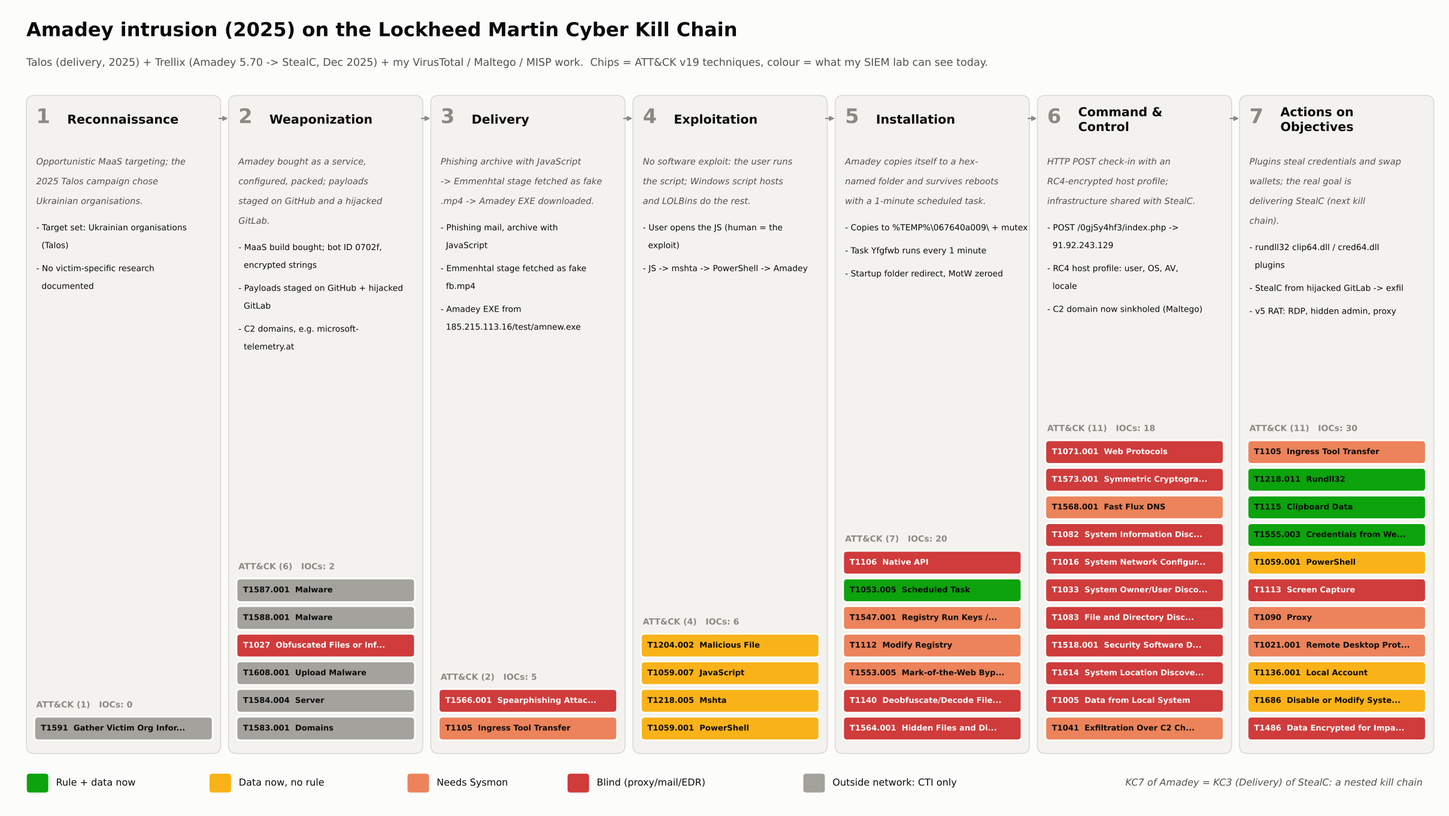
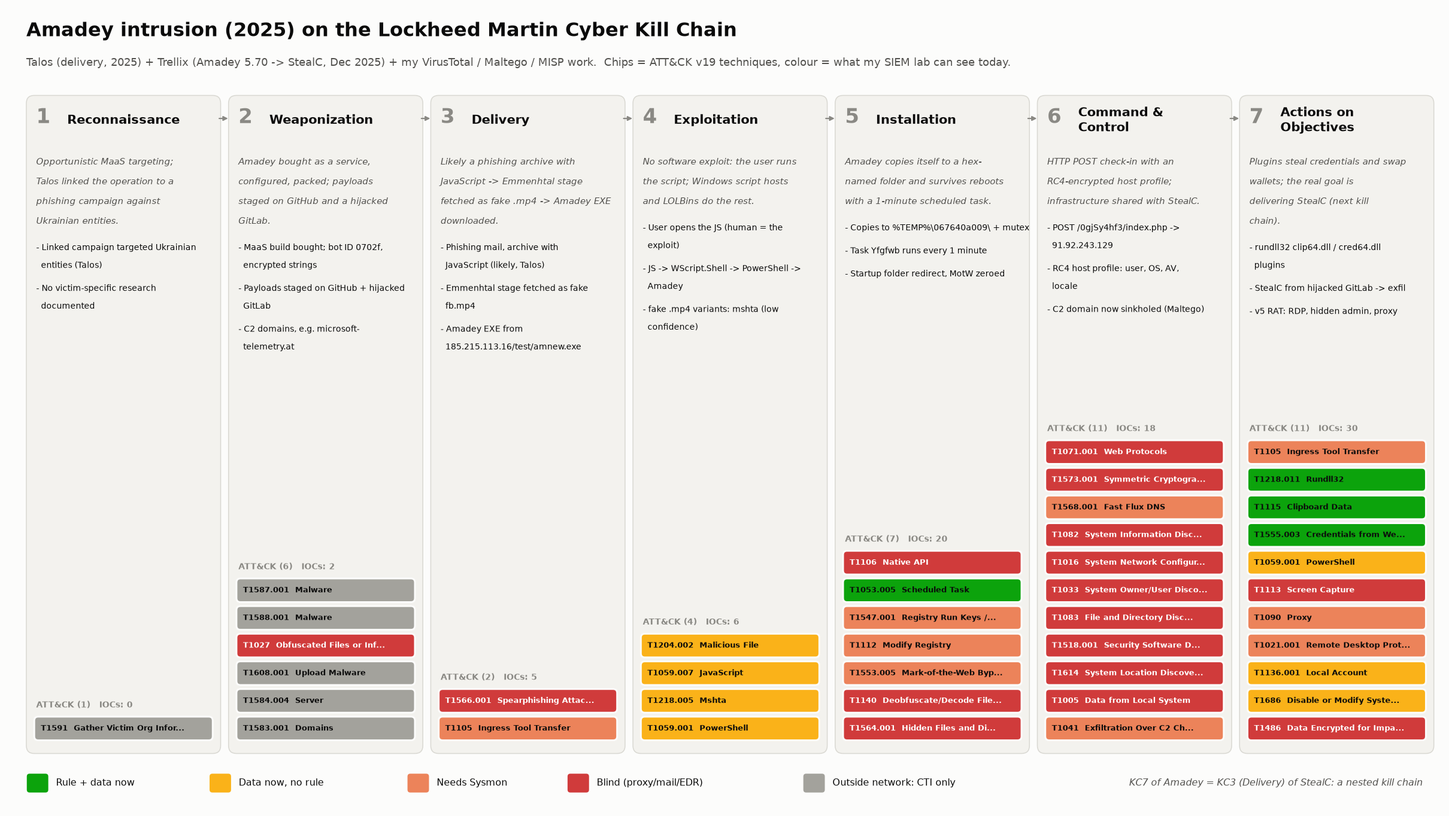
Fix factual errors in weeks 1-4
- Amadey v5 has 19 backdoor commands (IDs 10-29), not 29 (Microsoft,
  binaryanalys.is)
- Glossary: Talos campaign C2s were on AS56873, not AS202412; Talos
  operation described accurately (GitHub staging, linked SmokeLoader
  phishing against Ukrainian entities)
- Week 4: Talos shows JS -> WScript.Shell -> PowerShell, not mshta;
  T1218.005 lowered to low confidence (Emmenhtal fake-.mp4 pattern),
  T1566.001 to medium (phishing seen with SmokeLoader, assessed likely
  for Amadey). Regenerated JSON, Navigator layers and kill-chain figure
- T1158 is revoked (by T1564.001), not deprecated
- ECS export: scheduled task indicator now type "file" with file.path
  (windows-scheduled-task is not an ECS indicator type)
- VT seed comment for Splunk 617f4082 matches the VT finding

Claude-Session: https://claude.ai/code/session_01BRfDDBZsXrL5LqE1TAcPyw

diff --git a/week-04-kill-chain/scripts/build_kill_chain.py b/week-04-kill-chain/scripts/build_kill_chain.py
@@ -59,15 +59,15 @@ KILL_CHAIN = [
     {
         "phase": 1, "name": "Reconnaissance",
         "lm_definition": "Research, identification and selection of targets.",
-        "summary": "Opportunistic MaaS targeting; the 2025 Talos campaign chose Ukrainian organisations.",
-        "fig_actions": ["Target set: Ukrainian organisations (Talos)", "No victim-specific research documented"],
+        "summary": "Opportunistic MaaS targeting; Talos linked the operation to a phishing campaign against Ukrainian entities.",
+        "fig_actions": ["Linked campaign targeted Ukrainian entities (Talos)", "No victim-specific research documented"],
         "actions": [
-            "Affiliate picks a target set (Ukrainian entities in the Talos campaign) and lure theme",
+            "Affiliate picks a target set and lure theme (the linked Talos phishing campaign targeted Ukrainian entities)",
             "No victim-specific research documented - commodity loader, volume over precision",
         ],
         "sources": ["talos2025"],
         "techniques": [
-            {"id": "T1591", "how": "Choice of Ukrainian organisations as targets (inferred, low confidence)", "status": "CTI", "confidence": "low"},
+            {"id": "T1591", "how": "Target choice; the linked phishing campaign hit Ukrainian entities (inferred, low confidence)", "status": "CTI", "confidence": "low"},
         ],
     },
     {
@@ -94,16 +94,16 @@ KILL_CHAIN = [
     {
         "phase": 3, "name": "Delivery",
         "lm_definition": "Transmission of the weapon to the targeted environment.",
-        "summary": "Phishing archive with JavaScript -> Emmenhtal stage fetched as fake .mp4 -> Amadey EXE downloaded.",
-        "fig_actions": ["Phishing mail, archive with JavaScript", "Emmenhtal stage fetched as fake fb.mp4", "Amadey EXE from 185.215.113.16/test/amnew.exe"],
+        "summary": "Likely a phishing archive with JavaScript -> Emmenhtal stage fetched as fake .mp4 -> Amadey EXE downloaded.",
+        "fig_actions": ["Phishing mail, archive with JavaScript (likely, Talos)", "Emmenhtal stage fetched as fake fb.mp4", "Amadey EXE from 185.215.113.16/test/amnew.exe"],
         "actions": [
-            "Phishing e-mail with an archive containing a JavaScript file",
+            "Phishing e-mail with an archive containing a JavaScript file (seen in the linked SmokeLoader campaign; Talos assesses the Amadey Emmenhtal scripts were likely meant for the same delivery)",
             "Next stage pulled from pivqmane[.]com/doc/fb.mp4 (Emmenhtal disguised as video)",
             "Amadey binary downloaded from 185.215.113.16/test/amnew.exe",
         ],
         "sources": ["talos2025", "misp"],
         "techniques": [
-            {"id": "T1566.001", "how": "Archive attachment with JavaScript in phishing mail", "status": "BLIND", "confidence": "high"},
+            {"id": "T1566.001", "how": "Archive attachment with JavaScript in phishing mail (Talos: seen with SmokeLoader, likely for Amadey)", "status": "BLIND", "confidence": "medium"},
             {"id": "T1105", "how": "Emmenhtal stage and Amadey EXE downloaded over HTTP", "status": "SYSMON", "confidence": "high"},
         ],
     },
@@ -111,16 +111,17 @@ KILL_CHAIN = [
         "phase": 4, "name": "Exploitation",
         "lm_definition": "Triggering the intruder's code - a vulnerability, or the user/OS auto-executing it.",
         "summary": "No software exploit: the user runs the script; Windows script hosts and LOLBins do the rest.",
-        "fig_actions": ["User opens the JS (human = the exploit)", "JS -> mshta -> PowerShell -> Amadey"],
+        "fig_actions": ["User opens the JS (human = the exploit)", "JS -> WScript.Shell -> PowerShell -> Amadey", "fake .mp4 variants: mshta (low confidence)"],
         "actions": [
             "Victim opens the JavaScript from the archive (user execution - the 'exploited' component is the human)",
-            "JS -> mshta.exe runs the remote Emmenhtal stage -> PowerShell loads and starts Amadey",
+            "JS -> WScript.Shell runs encoded PowerShell -> AES-decrypted PowerShell downloads and starts Amadey",
+            "Emmenhtal variants disguised as .mp4 (pivqmane[.]com) are typically run by mshta.exe - not shown in Talos' JS samples",
         ],
         "sources": ["talos2025"],
         "techniques": [
             {"id": "T1204.002", "how": "User double-clicks the JS file from the archive", "status": "DATA", "confidence": "high"},
-            {"id": "T1059.007", "how": "JavaScript executed by Windows Script Host", "status": "DATA", "confidence": "high"},
-            {"id": "T1218.005", "how": "mshta.exe executes the remote Emmenhtal stage", "status": "DATA", "confidence": "high"},
+            {"id": "T1059.007", "how": "JavaScript executed by Windows Script Host (WScript.Shell launches PowerShell)", "status": "DATA", "confidence": "high"},
+            {"id": "T1218.005", "how": "mshta.exe runs Emmenhtal disguised as .mp4 (Orange Cyberdefense pattern; not in Talos' JS samples)", "status": "DATA", "confidence": "low"},
             {"id": "T1059.001", "how": "Emmenhtal PowerShell layer downloads/starts the loader", "status": "DATA", "confidence": "high"},
         ],
     },
@@ -143,7 +144,7 @@ KILL_CHAIN = [
             {"id": "T1112", "how": "Registry values overwritten for persistence", "status": "SYSMON", "confidence": "high"},
             {"id": "T1553.005", "how": "Zone.Identifier ADS zeroed so SmartScreen/MotW checks do not fire", "status": "SYSMON", "confidence": "high"},
             {"id": "T1140", "how": "Encrypted strings (AV names, C2, file names) decoded at runtime", "status": "BLIND", "confidence": "high"},
-            {"id": "T1564.001", "how": "Hidden files/directories (Talos STIX listed deprecated T1158)", "status": "BLIND", "confidence": "medium"},
+            {"id": "T1564.001", "how": "Hidden files/directories (Talos STIX listed revoked T1158)", "status": "BLIND", "confidence": "medium"},
         ],
     },
     {

diff --git a/week-03-data-processing/scripts/to_elastic_ndjson.py b/week-03-data-processing/scripts/to_elastic_ndjson.py
@@ -23,7 +23,7 @@ OUT = HERE.parent / "output" / "elastic"
 INDEX = "ti-amadey"
 
 ECS_TYPE = {"sha256": "file", "url": "url", "domain": "domain-name", "ip": "ipv4-addr",
-            "mutex": "mutex", "scheduled_task": "windows-scheduled-task"}
+            "mutex": "mutex", "scheduled_task": "file"}   # ECS has no task type: the .job task is a file
 
 MAPPING = {
     "mappings": {
@@ -37,7 +37,8 @@ MAPPING = {
                 "indicator": {"properties": {
                     "type": {"type": "keyword"},
                     "ip": {"type": "ip"},
-                    "file": {"properties": {"hash": {"properties": {"sha256": {"type": "keyword"}}}}},
+                    "file": {"properties": {"hash": {"properties": {"sha256": {"type": "keyword"}}},
+                                            "path": {"type": "keyword"}, "name": {"type": "keyword"}}},
                     "url": {"properties": {"full": {"type": "keyword"}, "domain": {"type": "keyword"},
                                            "path": {"type": "keyword"}}},
                     "description": {"type": "text"},
@@ -67,6 +68,9 @@ def doc(ioc, as_of):
         ind["ip"] = v
     elif t == "domain":
         ind["url"] = {"domain": v}
+    elif t == "scheduled_task":
+        ind["file"] = {"path": v, "name": v.rsplit("\\", 1)[-1]}
+        ind["description"] += f" | {t}: {v}"
     elif t == "url":
         host_path = v.split("://", 1)[1]
         host, _, path = host_path.partition("/")

diff --git a/week-03-data-processing/scripts/normalize_iocs.py b/week-03-data-processing/scripts/normalize_iocs.py
@@ -417,7 +417,7 @@ def write_outputs(merged, rejected, steps, attack_raw, attack_norm, as_of, out_d
     L += ["", "## Why indicators were NOT marked actionable", "", "| Reason | Count |", "|---|---|"]
     L += [f"| {k} | {v} |" for k, v in reasons.most_common()]
     L += ["", "## ATT&CK IDs found in STIX", "",
-          f"Raw: {', '.join(attack_raw)}  ", f"Normalised: {', '.join(attack_norm)} (deprecated T1158 -> T1564.001)", ""]
+          f"Raw: {', '.join(attack_raw)}  ", f"Normalised: {', '.join(attack_norm)} (revoked T1158 -> T1564.001)", ""]
     (out_dir / "pipeline_report.md").write_text("\n".join(L), encoding="utf-8")
 
 

diff --git a/week-04-kill-chain/02-amadey-kill-chain-analysis.md b/week-04-kill-chain/02-amadey-kill-chain-analysis.md
@@ -26,12 +26,14 @@
 
 **Intelligence gap (stated, not hidden):** Trellix analysed the sample but did not observe *how* it reached victims. For phases 1–4 I use the Talos campaign of the **same malware family in the same year** — an explicit assumption, marked in the confidence column of [`03-attack-mapping.md`](03-attack-mapping.md).
 
+**What Talos actually observed:** phishing e-mails against Ukrainian entities delivered Emmenhtal → **SmokeLoader**. The Emmenhtal samples that delivered **Amadey** were found in public GitHub repositories, not in e-mails; Talos links the two clusters by near-identical code and *assesses* that the Amadey scripts were likely meant for phishing too. So the phishing step (T1566.001) is medium confidence, not high.
+
 ## 2.2 Timeline
 
 | Date | Event | Source |
 |---|---|---|
 | Oct 2018 | Amadey sold as MaaS on Russian-speaking forums | Malpedia / ATT&CK S1025 |
-| Feb–Apr 2025 | MaaS operation against Ukrainian entities: Emmenhtal loader → Amadey → payloads hosted on GitHub | Talos |
+| Feb–Apr 2025 | MaaS operation: Emmenhtal loader → Amadey → payloads hosted on GitHub; linked by code overlap to a SmokeLoader phishing campaign against Ukrainian entities | Talos |
 | 11 Nov 2025 | Compile time of Amadey 5.70 sample `d7a366fa…` | VirusTotal (mine) |
 | 20 Nov 2025 | First submission of `d7a366fa…` to VirusTotal | VirusTotal (mine) |
 | 18 Dec 2025 | Trellix: Amadey 5.70 pulls StealC from a hijacked self-hosted GitLab | Trellix |
@@ -44,9 +46,9 @@
 
 ```mermaid
 flowchart LR
-    R["1 Recon<br/>targets: Ukrainian orgs"] --> W["2 Weaponization<br/>MaaS build 0702f<br/>payloads on GitHub / hijacked GitLab"]
-    W --> D["3 Delivery<br/>phishing archive (JS)<br/>fake fb.mp4, amnew.exe"]
-    D --> E["4 Exploitation<br/>user runs JS<br/>mshta → PowerShell"]
+    R["1 Recon<br/>linked campaign: Ukrainian orgs"] --> W["2 Weaponization<br/>MaaS build 0702f<br/>payloads on GitHub / hijacked GitLab"]
+    W --> D["3 Delivery<br/>phishing archive (JS), likely<br/>fake fb.mp4, amnew.exe"]
+    D --> E["4 Exploitation<br/>user runs JS<br/>WScript.Shell → PowerShell"]
     E --> I["5 Installation<br/>%TEMP%\067640a009\Yfgfwb.exe<br/>task every 1 min"]
     I --> C["6 C2<br/>POST /0gjSy4hf3/index.php<br/>91.92.243.129"]
     C --> A["7 Actions on Objectives<br/>clip64/cred64 plugins<br/>StealC download"]
@@ -59,10 +61,10 @@ Each phase lists **what happened**, the **evidence**, the **indicators** from my
 
 ### Phase 1 — Reconnaissance
 
-- **What happened:** the affiliate chose a target set (Ukrainian organisations) and a lure theme. Amadey is a commodity loader: no victim-specific research is documented — volume over precision.
+- **What happened:** the affiliate chose a target set and a lure theme. Talos links the operation to a phishing campaign against Ukrainian organisations (which delivered SmokeLoader). Amadey is a commodity loader: no victim-specific research is documented — volume over precision.
 - **ATT&CK:** T1591 *Gather Victim Org Information* — **inferred, low confidence**.
 - **Indicators:** none (0 of 81 IOCs).
-- **Defender view:** invisible from inside the network; only CTI says "Ukrainian organisations were targeted".
+- **Defender view:** invisible from inside the network; only CTI says "Ukrainian organisations were targeted" (by the linked campaign).
 
 ### Phase 2 — Weaponization
 
@@ -79,18 +81,18 @@ Each phase lists **what happened**, the **evidence**, the **indicators** from my
 ### Phase 3 — Delivery
 
 - **What happened:**
-  - Phishing e-mails carried an **archive with a JavaScript file** (T1566.001).
-  - The Talos IOC list contains two `.mp4` URLs on `pivqmane[.]com` (`/doc/fb.mp4`, `/testonload.mp4`). Hiding the next stage behind fake media files fetched by `mshta` is a known Emmenhtal pattern.
+  - Phishing e-mails carried an **archive with a JavaScript file** (T1566.001). Talos saw this with the linked SmokeLoader campaign and assesses the Amadey-delivering Emmenhtal scripts were likely meant for the same delivery → **medium** confidence.
+  - The Talos IOC list contains two `.mp4` URLs on `pivqmane[.]com` (`/doc/fb.mp4`, `/testonload.mp4`). Talos only says these Emmenhtal samples masquerade as MP4; running such fake media files with `mshta` is a known Emmenhtal pattern (Orange Cyberdefense).
   - The Amadey binary itself came from `http://185.215.113.16/test/amnew.exe` (T1105).
 - **Indicators:** 5 (staging URLs, the domain and the IP).
 - **Defender view:** mail gateway and proxy — **neither exists in my lab** → `T1566.001` blind. Downloads become visible with Sysmon 11/3.
 
 ### Phase 4 — Exploitation
 
-- **What happened:** **no software vulnerability is exploited.** The victim opens the JavaScript (T1204.002), Windows Script Host runs it (T1059.007), `mshta.exe` executes the remote Emmenhtal stage (T1218.005), and a PowerShell layer starts the loader (T1059.001). The "exploited component" is the human plus built-in Windows binaries (LOLBins).
+- **What happened:** **no software vulnerability is exploited.** The victim opens the JavaScript (T1204.002), Windows Script Host runs it (T1059.007), `WScript.Shell` launches an encoded PowerShell command, and an AES-decrypted PowerShell layer downloads and starts the loader (T1059.001) — this is the chain Talos shows. For the fake-`.mp4` variants, `mshta.exe` is the likely runner (T1218.005, **low** confidence: not shown in Talos' samples). The "exploited component" is the human plus built-in Windows binaries (LOLBins).
 - **Indicators:** 6 Talos campaign hashes. In Week 2, VirusTotal showed that 3 of the 4 I checked are JavaScript downloaders and 1 is Amadey itself; 2 are still unchecked.
-- **Defender view:** **this is the earliest phase my lab can see today.** Security 4688 records `wscript.exe` / `mshta.exe http…` / `powershell.exe`, and PowerShell 4104 records the script blocks. The data is there but **no rule exists yet** → the first hunting target for Week 5.
-- **Lesson:** patching alone does not break this chain; controlling **script hosts and mshta** does.
+- **Defender view:** **this is the earliest phase my lab can see today.** Security 4688 records `wscript.exe` → `powershell.exe` (and `mshta.exe http…` for the `.mp4` variants), and PowerShell 4104 records the script blocks. The data is there but **no rule exists yet** → the first hunting target for Week 5.
+- **Lesson:** patching alone does not break this chain; controlling **script hosts (wscript, mshta) and PowerShell** does.
 
 ### Phase 5 — Installation
 
@@ -98,7 +100,7 @@ Each phase lists **what happened**, the **evidence**, the **indicators** from my
   - Amadey copies itself to `%TEMP%\067640a009\Yfgfwb.exe` and starts the copy (T1106). Mutex `f936986d553273aef6eeaeef713ad28f` blocks double infection.
   - **Scheduled task** `Yfgfwb` (`C:\Windows\Tasks\Yfgfwb.job`) runs it **every minute** (T1053.005).
   - The Startup folder is redirected in the registry (T1547.001, T1112), Mark-of-the-Web is zeroed (T1553.005), and strings are decoded at runtime (T1140).
-  - Talos' STIX also lists hidden files/directories, under the deprecated ID T1158 → now **T1564.001**.
+  - Talos' STIX also lists hidden files/directories, under the revoked ID T1158 → now **T1564.001**.
 - **Indicators:** 20 (14 Amadey sample hashes + mutex, task, folders, file names).
 - **Defender view:**
   - ✅ The scheduled-task rule (4688/4698) and the hex-folder EXE rule work **today**.

diff --git a/week-04-kill-chain/03-attack-mapping.md b/week-04-kill-chain/03-attack-mapping.md
@@ -12,7 +12,7 @@
 | Unique techniques | **40** — all **17** official ATT&CK S1025 techniques (★) + **23** from the 2022–2026 reports and my own analysis |
 | Tactics touched | **15 / 15** (v19: Stealth TA0005 and Defense Impairment TA0112 replace Defense Evasion) |
 | Techniques in two phases | T1059.001 PowerShell (phase 4 exploitation and phase 7 `Expand-Archive`), T1105 Ingress Tool Transfer (phase 3 delivery and phase 7 plugins/StealC) |
-| Corrected IDs | T1158 → **T1564.001** (deprecated in Talos' STIX), T1562.004 → **T1686** (revoked in v19) |
+| Corrected IDs | T1158 → **T1564.001** (revoked ID in Talos' STIX), T1562.004 → **T1686** (revoked in v19) |
 
 ### Unique techniques per tactic
 
@@ -41,18 +41,18 @@
 
 | KC phase | ATT&CK v19 tactic(s) | ID | Technique | Amadey procedure in this intrusion | Conf. | My lab |
 |---|---|---|---|---|---|---|
-| 1 Reconnaissance | Reconnaissance | T1591 | Gather Victim Org Information | Choice of Ukrainian organisations as targets (inferred, low confidence) | low | CTI only |
+| 1 Reconnaissance | Reconnaissance | T1591 | Gather Victim Org Information | Target choice; the linked phishing campaign hit Ukrainian entities (inferred, low confidence) | low | CTI only |
 | 2 Weaponization | Resource Development | T1587.001 | Malware | Amadey developed and sold as MaaS since 2018 (operator side) | high | CTI only |
 | 2 Weaponization | Resource Development | T1588.001 | Malware | Affiliates buy Amadey builds (customer side) | high | CTI only |
 | 2 Weaponization | Stealth | T1027 ★ | Obfuscated Files or Information | Encrypted strings in the build, obfuscated Emmenhtal JavaScript | high | ❌ blind |
 | 2 Weaponization | Resource Development | T1608.001 | Upload Malware | Payloads staged in GitHub repos and in gitlab.bzctoons.net/suau/fds | high | CTI only |
 | 2 Weaponization | Resource Development | T1584.004 | Server | Self-hosted GitLab servers hijacked (bzctoons.net; gitd3ti.vokasi.uns.ac.id from my VT pivot) | high | CTI only |
 | 2 Weaponization | Resource Development | T1583.001 | Domains | C2 domains such as microsoft-telemetry.at, goodpanelforgoodjob.com | medium | CTI only |
-| 3 Delivery | Initial Access | T1566.001 | Spearphishing Attachment | Archive attachment with JavaScript in phishing mail | high | ❌ blind |
+| 3 Delivery | Initial Access | T1566.001 | Spearphishing Attachment | Archive attachment with JavaScript in phishing mail (Talos: seen with SmokeLoader, likely for Amadey) | medium | ❌ blind |
 | 3 Delivery | Command and Control | T1105 ★ | Ingress Tool Transfer | Emmenhtal stage and Amadey EXE downloaded over HTTP | high | ⚠ needs Sysmon |
 | 4 Exploitation | Execution | T1204.002 | Malicious File | User double-clicks the JS file from the archive | high | data, no rule (huntable) |
-| 4 Exploitation | Execution | T1059.007 | JavaScript | JavaScript executed by Windows Script Host | high | data, no rule (huntable) |
-| 4 Exploitation | Stealth | T1218.005 | Mshta | mshta.exe executes the remote Emmenhtal stage | high | data, no rule (huntable) |
+| 4 Exploitation | Execution | T1059.007 | JavaScript | JavaScript executed by Windows Script Host (WScript.Shell launches PowerShell) | high | data, no rule (huntable) |
+| 4 Exploitation | Stealth | T1218.005 | Mshta | mshta.exe runs Emmenhtal disguised as .mp4 (Orange Cyberdefense pattern; not in Talos' JS samples) | low | data, no rule (huntable) |
 | 4 Exploitation | Execution | T1059.001 | PowerShell | Emmenhtal PowerShell layer downloads/starts the loader | high | data, no rule (huntable) |
 | 5 Installation | Execution | T1106 ★ | Native API | CreateProcessA starts the copied loader | high | ❌ blind |
 | 5 Installation | Execution, Persistence, Privilege Escalation | T1053.005 | Scheduled Task | Task named after the EXE, trigger every 1 minute (confirmed in VT sandbox) | high | ✅ rule + data |
@@ -60,7 +60,7 @@
 | 5 Installation | Defense Impairment, Persistence | T1112 ★ | Modify Registry | Registry values overwritten for persistence | high | ⚠ needs Sysmon |
 | 5 Installation | Defense Impairment | T1553.005 ★ | Mark-of-the-Web Bypass | Zone.Identifier ADS zeroed so SmartScreen/MotW checks do not fire | high | ⚠ needs Sysmon |
 | 5 Installation | Stealth | T1140 ★ | Deobfuscate/Decode Files or Information | Encrypted strings (AV names, C2, file names) decoded at runtime | high | ❌ blind |
-| 5 Installation | Stealth | T1564.001 | Hidden Files and Directories | Hidden files/directories (Talos STIX listed deprecated T1158) | medium | ❌ blind |
+| 5 Installation | Stealth | T1564.001 | Hidden Files and Directories | Hidden files/directories (Talos STIX listed revoked T1158) | medium | ❌ blind |
 | 6 Command & Control | Command and Control | T1071.001 ★ | Web Protocols | HTTP POST to /<random>/index.php (Sigma rule ready, needs proxy logs) | high | ❌ blind |
 | 6 Command & Control | Command and Control | T1573.001 | Symmetric Cryptography | v5 encrypts the host profile with RC4 before sending | medium | ❌ blind |
 | 6 Command & Control | Command and Control | T1568.001 ★ | Fast Flux DNS | Fast-flux DNS hides C2 hosts (S1025) | medium | ⚠ needs Sysmon |
@@ -103,5 +103,5 @@ Manual: [ATT&CK Navigator](https://mitre-attack.github.io/attack-navigator/) →
 2. **One phase per action.** A technique appears in two phases only when it is really used twice for different purposes (PowerShell: run the loader vs unpack StealC).
 3. **Discovery sits in phase 6.** Amadey's host profiling travels inside its first C2 message, so it belongs to the C2 phase in this intrusion.
 4. **Attacker-side work is phase 2** (Resource Development + obfuscation). It's invisible to my SIEM and marked *CTI only*.
-5. **Confidence is explicit.** *High* = documented by a vendor or my sandbox review; *medium* = documented for the family/version but not for this exact sample; *low* = inferred (T1591).
+5. **Confidence is explicit.** *High* = documented by a vendor or my sandbox review; *medium* = documented for the family/version but not for this exact sample; *low* = inferred (T1591; T1218.005 mshta, a known Emmenhtal pattern that Talos did not show for these samples).
 6. **Versions matter.** ATT&CK v19 renamed and moved techniques. My Week 1 profile and Week 3 MISP tags already use v19, and this script re-validates against the official data, so the mapping won't silently go stale.

diff --git a/week-04-kill-chain/README.md b/week-04-kill-chain/README.md
@@ -3,7 +3,7 @@
 **Lifecycle stage:** Analysis → planning defences\
 **Syllabus tasks:** (1) analyze a real-world cyberattack using the stages of the Kill Chain · (2) map each stage to corresponding ATT&CK TTPs · lecture sources: Lockheed Martin whitepaper, MITRE ATT&CK comparison · reading: Lockheed Martin *Intelligence-Driven Defense* (Hutchins, Cloppert & Amin, 2011)
 
-**Attack analysed:** an **Amadey → StealC** intrusion (2025). Cisco Talos documented the delivery side (phishing → Emmenhtal → Amadey, Feb–Apr 2025). Trellix documented Amadey 5.70 pulling StealC from a hijacked GitLab (Dec 2025). I cross-checked both with my own VirusTotal, Maltego and MISP work from Weeks 2–3.
+**Attack analysed:** an **Amadey → StealC** intrusion (2025). Cisco Talos documented the delivery side (Emmenhtal JavaScript → PowerShell → Amadey, Feb–Apr 2025; the phishing step is Talos' assessment, based on a linked SmokeLoader campaign). Trellix documented Amadey 5.70 pulling StealC from a hijacked GitLab (Dec 2025). I cross-checked both with my own VirusTotal, Maltego and MISP work from Weeks 2–3.
 
 ## Deliverables
 
@@ -31,7 +31,7 @@
 
 ## Key findings
 
-1. **The exploit is a human.** No CVE anywhere in the chain. The user runs a JavaScript file, then `mshta` and PowerShell do the rest. Patching doesn't break this chain; controlling script hosts does.
+1. **The exploit is a human.** No CVE anywhere in the chain. The user runs a JavaScript file, then Windows Script Host and PowerShell do the rest (`mshta` for the fake-`.mp4` variants). Patching doesn't break this chain; controlling script hosts does.
 2. **Public IOCs describe the end of the chain.** 84 % of the vendor IOCs belong to phases 5–7, after the malware already runs. Breaking the chain early needs **behaviour**, not hash lists.
 3. **C2 is my biggest blind spot.** 9 of 11 C2-phase techniques are invisible. The `index.php` Sigma rule already exists; there is just no proxy feeding it. That's a sensor gap, not a rule gap.
 4. **Nested chains and split actors.** Amadey's *Actions on Objectives* **is** StealC's *Delivery*. The developer, the affiliate and the payload customer each run different phases. Stopping the loader early stops both chains.
@@ -53,7 +53,7 @@ python build_kill_chain.py        # downloads ATT&CK v19.2 STIX once (~54 MB) to
 |---|---|---|
 | 0:00–1:00 | Lockheed Martin model in one slide: 7 phases, "defender needs one break", Courses of Action | `01`, §1.2–1.3 |
 | 1:00–2:00 | Which attack and why: Talos + Trellix 2025, own evidence; the stated intelligence gap | `02`, §2.1–2.2 |
-| 2:00–4:30 | Walk the chain on the figure: phishing JS → mshta/PowerShell → hex folder + 1-min task → `index.php` C2 → plugins + StealC | `figures/amadey_kill_chain.png` |
+| 2:00–4:30 | Walk the chain on the figure: phishing JS → WScript.Shell/PowerShell → hex folder + 1-min task → `index.php` C2 → plugins + StealC | `figures/amadey_kill_chain.png` |
 | 4:30–5:30 | ATT&CK mapping: 40 techniques, 15/15 tactics, v19 changes (Stealth, Defense Impairment, T1686), validated by script | `03`, matrix figure / Navigator link |
 | 5:30–6:30 | Coverage: where my lab can break the chain (phase 4), blind C2, Sysmon unlocks 8 | `04`, §4.2–4.3 |
 | 6:30–7:30 | Lessons: no exploit, IOCs = late phases, nested chains → Week 5 hypotheses H1–H3 | `04`, §4.4 |
@@ -61,9 +61,9 @@ python build_kill_chain.py        # downloads ATT&CK v19.2 STIX once (~54 MB) to
 **Likely questions**
 
 - *What's the difference between the Kill Chain and ATT&CK?* — Kill Chain = 7 linear phases, strategic (where to break, which defence). ATT&CK = 15 tactics with hundreds of techniques, operational (what exactly to detect). I use the first for structure and the second for detection.
-- *Where's the "exploitation" if there's no exploit?* — The model defines exploitation as *triggering the intruder's code*. Here the user runs the script, and Windows binaries (`mshta`, PowerShell) execute it — T1204.002, T1218.005, T1059.x.
+- *Where's the "exploitation" if there's no exploit?* — The model defines exploitation as *triggering the intruder's code*. Here the user runs the script, and Windows binaries (Windows Script Host, PowerShell; `mshta` for the fake-`.mp4` variants) execute it — T1204.002, T1059.x, T1218.005.
 - *Why is Discovery in the C2 phase?* — Amadey collects the host profile and sends it in its first C2 request, so in this intrusion discovery happens *inside* the beacon.
 - *Why does Weaponization have ATT&CK techniques if it happens on the attacker's side?* — ATT&CK's Resource Development tactic covers it: developing/buying malware (T1587.001/T1588.001), staging payloads (T1608.001), hijacking servers (T1584.004). Only CTI sees it.
 - *What would you fix first?* — Rules on the data I already have (phase 4), then Sysmon (+8 techniques), then ASR/AppLocker to move from detection to prevention.
 - *What's a limitation of the Kill Chain for this case?* — It assumes one attacker and one linear chain. MaaS gives a developer, an affiliate and a payload customer, and nested chains (Amadey → StealC). Post-compromise activity is squeezed into two phases.
-- *How do you know the ATT&CK IDs are right?* — The build script loads the official ATT&CK v19.2 STIX bundle and stops if an ID is unknown, revoked or deprecated. For example, T1562.004 (revoked in v19 → T1686) and T1158 (deprecated → T1564.001) would both fail.
+- *How do you know the ATT&CK IDs are right?* — The build script loads the official ATT&CK v19.2 STIX bundle and stops if an ID is unknown, revoked or deprecated. For example, T1562.004 (revoked in v19 → T1686) and T1158 (revoked → T1564.001) would both fail.

diff --git a/week-03-data-processing/02-ioc-import.md b/week-03-data-processing/02-ioc-import.md
@@ -67,7 +67,7 @@ Result: MISP **correlated** the Talos event with the consolidated event on exact
 | Event | Imported how | Attributes | IDS | Tags / galaxies | Notes |
 |---|---|---|---|---|---|
 | **#1** consolidated Amadey + StealC | A) MISP JSON (`amadey_misp_event.json`) | **81** | **54** | `tlp:clear`, Admiralty **A2**; S1025, Malpedia Amadey/StealC, 6 ATT&CK techniques — all resolved to galaxy clusters | *Related events: #2 (13 correlations)*, *extended by #3* |
-| **#2** raw Talos bundle | STIX 2.1 upload (`talos_2025-07_emmenhtal-amadey.stix2.json`) | 15 + 1 object | 13 | `TLP:WHITE` (**flagged invalid by MISP**), `Threat-Report`, ATT&CK tags as **bare STIX UUIDs**, deprecated **T1158** cluster | Threat level *Undefined*, analysis *Initial*, distribution *This community* — vendor defaults, not mine |
+| **#2** raw Talos bundle | STIX 2.1 upload (`talos_2025-07_emmenhtal-amadey.stix2.json`) | 15 + 1 object | 13 | `TLP:WHITE` (**flagged invalid by MISP**), `Threat-Report`, ATT&CK tags as **bare STIX UUIDs**, revoked **T1158** cluster | Threat level *Undefined*, analysis *Initial*, distribution *This community* — vendor defaults, not mine |
 | **#3** VirusTotal pivot leads | MISP JSON built by [`scripts/build_pivot_event.py`](scripts/build_pivot_event.py) from Week 2 [`vt_pivot_new_leads_2026-10-02.csv`](../week-02-data-collection/data/enrichment/vt_pivot_new_leads_2026-10-02.csv) | 7 | 0 | `tlp:clear`, Admiralty **B3**; S1025, T1584.004 (compromised server), T1608.001 (upload malware), T1105 | `extends_uuid` = event #1 → shows as *Extends event 1*; all leads are expired or legitimate-compromised hosts → **retro-hunt only** |
 
 **Sightings:** the two values that VirusTotal's sandbox *confirmed* (mutex `f936986d…`, scheduled task `Yfgfwb.job`) were not duplicated into event #3 — I added a **sighting** to the event #1 attributes instead (*Sightings: 2*). One observation = one sighting; no duplicate attributes.
@@ -76,7 +76,7 @@ Result: MISP **correlated** the Talos event with the consolidated event on exact
 
 ### What the import itself taught me (talking points)
 
-1. **Raw vendor STIX is not ready to use.** Event #2 shows an invalid `TLP:WHITE` tag (TLP 2.0 renamed it to `tlp:clear`), ATT&CK references as unresolved UUIDs, a deprecated technique (T1158 → T1564.001) and *every* IP marked IDS — including `185.215.113.209` and `.75` from a /24 that RIPEstat shows withdrawn from BGP since 2025-05-02. My normalised event #1 fixes all four.
+1. **Raw vendor STIX is not ready to use.** Event #2 shows an invalid `TLP:WHITE` tag (TLP 2.0 renamed it to `tlp:clear`), ATT&CK references as unresolved UUIDs, a revoked technique (T1158 → T1564.001) and *every* IP marked IDS — including `185.215.113.209` and `.75` from a /24 that RIPEstat shows withdrawn from BGP since 2025-05-02. My normalised event #1 fixes all four.
 2. **Correlation works on exact values** — the 13 shared values link both events automatically. The two hashes that Talos' TXT list truncated to 63 characters (`4e3951e6…`, `c62e7aca…`) could never match anything, which is why the pipeline rejects them instead of importing them.
 3. **MISP normalises too:** it stored `C:\Windows\Tasks\Yfgfwb.job` as `%WINDIR%\Tasks\Yfgfwb.job`. A SIEM query built from the MISP value must expand the variable again or match only the end of the path (`\Tasks\Yfgfwb.job`).
 4. **Analyst output ≠ publisher data.** My own pivots live in an *extension* event with a lower Admiralty rating (B3) instead of being mixed into the publishers' A2 event.

diff --git a/week-01-cti-fundamentals/01-cti-glossary.md b/week-01-cti-fundamentals/01-cti-glossary.md
@@ -14,7 +14,7 @@
 | 3 | **Risk** | Likelihood × impact of a threat exploiting a vulnerability. | High: one Amadey infection can lead to StealC credential theft or ransomware (LockBit 3.0 was delivered via Amadey in 2022). |
 | 4 | **Threat actor** | The person/group behind malicious activity. | The Amadey *developer* (sells the kit) vs. many *operators/affiliates* (run campaigns). ATT&CK also links Amadey to **TA505** and **Kimsuky**. |
 | 5 | **Cyber Threat Intelligence (CTI)** | Evidence-based knowledge about threats (context, mechanisms, indicators, implications) that supports decisions. | This repo: turning raw Amadey reports into IOCs, TTPs and detections a SOC can use. |
-| 6 | **Information vs. intelligence** | Information = raw data; intelligence = processed, analysed and *relevant* to a decision. | A list of 8 hashes from Talos = information. “Block these 6 valid hashes; 2 are malformed; C2s on AS202412” = intelligence. |
+| 6 | **Information vs. intelligence** | Information = raw data; intelligence = processed, analysed and *relevant* to a decision. | A list of 8 hashes from Talos = information. “Block these 6 valid hashes; 2 are malformed; the C2 range on AS56873 has been offline since May 2025” = intelligence. |
 | 7 | **Intelligence lifecycle** | Planning/Direction → Collection → Processing → Analysis → Dissemination → Feedback. | Week 1 = direction, Week 2 = collection, Week 3 = processing. The project's weekly structure follows the lifecycle. |
 | 8 | **Intelligence requirement (IR / PIR)** | The question the intelligence must answer (Priority IR = most critical). | *PIR-1: “How does Amadey get into an environment and how can it be detected before the second-stage payload runs?”* |
 
@@ -23,7 +23,7 @@
 | # | Term | Definition | Amadey example |
 |---|------|-----------|----------------|
 | 9 | **Strategic intelligence** | High-level, non-technical; for executives (trends, risk, business impact). | “MaaS loaders like Amadey were the target of Operation Endgame (June 2026); infostealer-to-ransomware chains remain a top risk.” |
-| 10 | **Operational intelligence** | About specific campaigns/attacks: who, when, how. | Talos (Jul 2025): a MaaS operation used GitHub repos to host Amadey payloads targeting Ukrainian entities. |
+| 10 | **Operational intelligence** | About specific campaigns/attacks: who, when, how. | Talos (Jul 2025): a MaaS operation used GitHub repos to stage payloads that Amadey downloaded; its Emmenhtal loaders match a SmokeLoader phishing campaign against Ukrainian entities. |
 | 11 | **Tactical intelligence** | TTPs — how the adversary operates; for defenders/hunters. | Amadey copies itself to `%TEMP%\<10-hex>\<name>.exe` and creates a scheduled task that runs every minute. |
 | 12 | **Technical intelligence** | Atomic, machine-readable indicators; short lifespan. | C2 URL `hxxp://91.92.243[.]129/0gjSy4hf3/index.php`, mutex `f936986d553273aef6eeaeef713ad28f`. |
 

diff --git a/week-03-data-processing/03-filtering-normalization.md b/week-03-data-processing/03-filtering-normalization.md
@@ -35,7 +35,7 @@ flowchart LR
 | 7 | **De-duplication** | Key = (type, value); merge sources, keep earliest `first_seen` / latest `last_seen` | 13 Talos values were in both TXT and STIX |
 | 8 | **Derivation** | Extract host from each URL as its own IP/domain indicator (`derived = true`) | `http://svclsc.com/ms/index.php` → `svclsc.com` |
 | 9 | **Filtering** | (a) allowlist of legit services, (b) compromised-but-legit parent domains, (c) **TTL**: IP 90 d, domain/URL 180 d, hashes never, (d) Week-2 infra status (BGP withdrawn / re-assigned IP), (e) context-only artefacts | `185.215.113.43` → expired **and** prefix withdrawn |
-| 10 | **Scoring + tags** | Confidence = 70 (Admiralty A2) +10 per extra publisher −20 unlabelled −10 derived −20 expired → High/Medium/Low; deprecated ATT&CK IDs mapped (T1158 → T1564.001; T1562.004 → T1686 in v19) | Talos hash = *Medium (50)*; Microsoft C2 URL = *High (70)* |
+| 10 | **Scoring + tags** | Confidence = 70 (Admiralty A2) +10 per extra publisher −20 unlabelled −10 derived −20 expired → High/Medium/Low; revoked ATT&CK IDs mapped (T1158 → T1564.001; T1562.004 → T1686 in v19) | Talos hash = *Medium (50)*; Microsoft C2 URL = *High (70)* |
 
 ## 3.3 Results (as of 2026-10-02)
 
@@ -88,7 +88,7 @@ flowchart LR
 2. **All 7 IPs are dead or re-used**; none are safe to block today. Hashes and recent domains are what remain actionable — consistent with the Pyramid of Pain (IPs are the most volatile network IOC).
 3. **Declared type beats regex.** Two 32-hex values (mutex, decryption key) would be mis-typed as MD5 by naïve tools, including MISP's freetext parser.
 4. **Families must be separated.** 20 of 79 valid records are StealC — tagging them “Amadey” would mislead any analyst pivoting from an alert.
-5. **Data quality issues exist even in top-tier sources** (truncated hashes in Talos TXT, deprecated ATT&CK ID in Talos STIX) — validation is not optional.
+5. **Data quality issues exist even in top-tier sources** (truncated hashes in Talos TXT, revoked ATT&CK ID in Talos STIX) — validation is not optional.
 
 ## 3.5 Output files
 

diff --git a/week-01-cti-fundamentals/02-threat-classification.md b/week-01-cti-fundamentals/02-threat-classification.md
@@ -23,7 +23,7 @@ I classify along **four axes**, then place Amadey on each one.
 |---|---|---|
 | **Ransomware** | Encrypt/steal data for extortion | **Indirect** — Amadey delivered LockBit 3.0 (ASEC, 2022). |
 | **Malware** (incl. infostealers, loaders) | Malicious code in general | **Direct** — Amadey *is* a loader/botnet; v5 is a modular RAT. |
-| **Social engineering** (phishing) | Manipulating people | **Delivery vector** — phishing archives with JS (Talos 2025), ClickFix, fake software. |
+| **Social engineering** (phishing) | Manipulating people | **Delivery vector** — phishing archives with JS (Emmenhtal; Talos 2025 links it to Amadey), ClickFix, fake software. |
 | **Threats against data** | Breach/leak of data | **Via payloads** — StealC/`cred.dll` steal credentials. |
 | **Threats against availability (DDoS)** | Service disruption | Low — Amadey can run any payload, but not its purpose. |
 | **Information manipulation** | Disinformation | ❌ |
@@ -37,7 +37,7 @@ I classify along **four axes**, then place Amadey on each one.
 | **Trojan** | Disguised as legitimate software | ✅ Delivered as fake/cracked software |
 | **Loader / downloader** | Fetch + run next stage | ✅ **Core function** |
 | **Bot / botnet client** | Polls C2 for tasks | ✅ |
-| **RAT / backdoor** | Interactive remote control | ✅ **v5**: 29 commands incl. cmd/PowerShell, VNC, SOCKS proxy, RDP enable, hidden admin |
+| **RAT / backdoor** | Interactive remote control | ✅ **v5**: 19 commands (IDs 10–29) incl. cmd/PowerShell, VNC, SOCKS proxy, RDP enable, hidden admin |
 | **Infostealer** | Credentials, cookies, clipboard | ✅ via plugins `cred.dll`, `clip.dll` |
 | Ransomware | Encrypt for ransom | ❌ itself — ✅ as payload |
 | Rootkit / wiper | Stealth / destruction | ❌ |

diff --git a/week-01-cti-fundamentals/03-amadey-profile.md b/week-01-cti-fundamentals/03-amadey-profile.md
@@ -27,7 +27,7 @@
 | 2023 | v3.8x–v4 widely tracked; Splunk publishes detections | Splunk Threat Research |
 | Feb–Apr 2025 | **MaaS operation**: Emmenhtal JS loader → Amadey → payloads hosted on **GitHub** repos (account `Legendary99999`, 160+ repos) | Cisco Talos (Jul 2025) |
 | Dec 2025 | Amadey **5.70** pulls StealC from a **compromised self-hosted GitLab** | Trellix |
-| 2025–2026 | v5.x (5.60 → 5.87): full RAT — 29 commands, VNC, SOCKS, RDP, hidden admin | Microsoft, binaryanalys.is |
+| 2025–2026 | v5.x (5.60 → 5.87): full RAT — 19 commands (IDs 10–29), VNC, SOCKS, RDP, hidden admin | Microsoft, binaryanalys.is |
 | 24 Jun 2026 | **Operation Endgame** + Microsoft DCU disrupt Amadey & StealC | Microsoft, Europol, Help Net Security |
 
 ## 3.2 Infection chain (2025–2026 campaigns)
@@ -120,7 +120,7 @@ flowchart LR
 | T1090 | Proxy | v5 SOCKS proxy |
 | T1021.001 / T1136.001 | RDP / Create Local Account | v5 commands 0x18 / 0x19 |
 | T1686 | Disable or Modify System Firewall (was T1562.004 before v19) | v5 command 0x18 opens firewall rules for RDP |
-| T1566.001 | Spearphishing Attachment | Talos 2025 (delivery stage) |
+| T1566.001 | Spearphishing Attachment | Talos 2025 — seen with the linked SmokeLoader campaign; *likely* for the Amadey Emmenhtal scripts (Talos' assessment) |
 
 ## 3.5 Why Amadey is a good hunting target
 

diff --git a/week-02-data-collection/README.md b/week-02-data-collection/README.md
@@ -27,7 +27,7 @@
 | Shodan host lookups | 7 IPs → **2 live** (`91.92.243.129`, `158.94.208.130`), 5 no data |
 | Maltego | 36 entities / 40 links imported → 3 passive transforms (NS, location, reverse DNS) → **53 entities / 60 links**, 0 credits |
 | New leads from pivoting | **6** (second compromised GitLab + IP, plugin path, `scr=1`, `.job` task, drop-folder pattern) |
-| Quality problems spotted at collection | 4 (truncated hashes, deprecated ATT&CK ID, mixed defanging, mixed malware families) |
+| Quality problems spotted at collection | 4 (truncated hashes, revoked ATT&CK ID, mixed defanging, mixed malware families) |
 | Data sources mapped | 14 behaviours → 8 log sources; lab covers 7/14 now, 12/14 with Sysmon |
 
 ## Key findings
